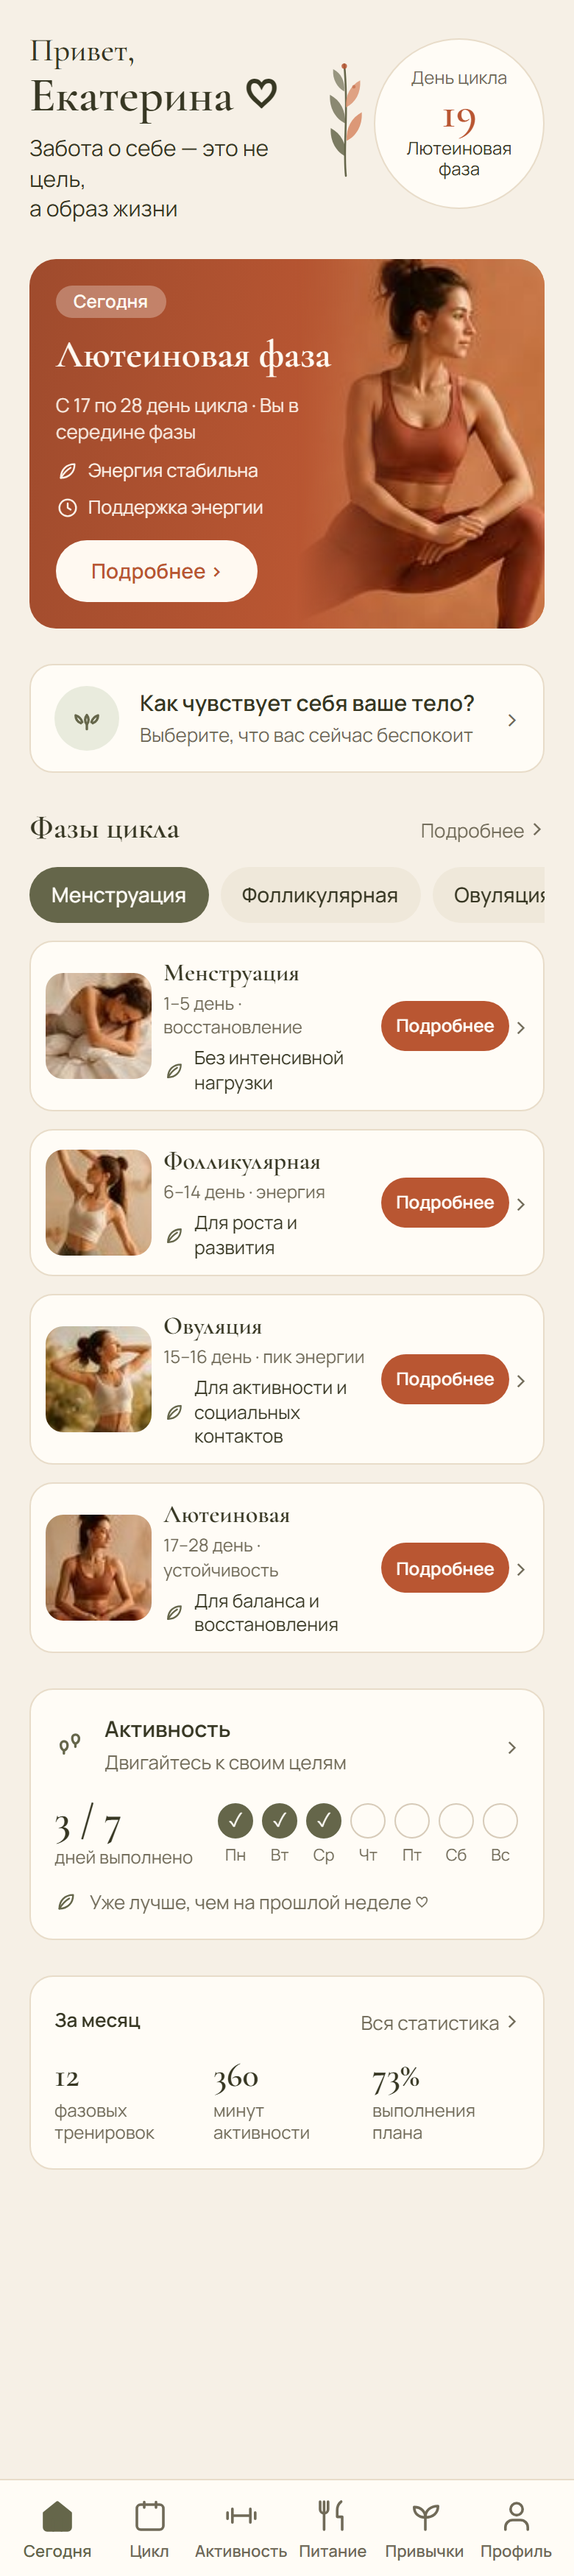
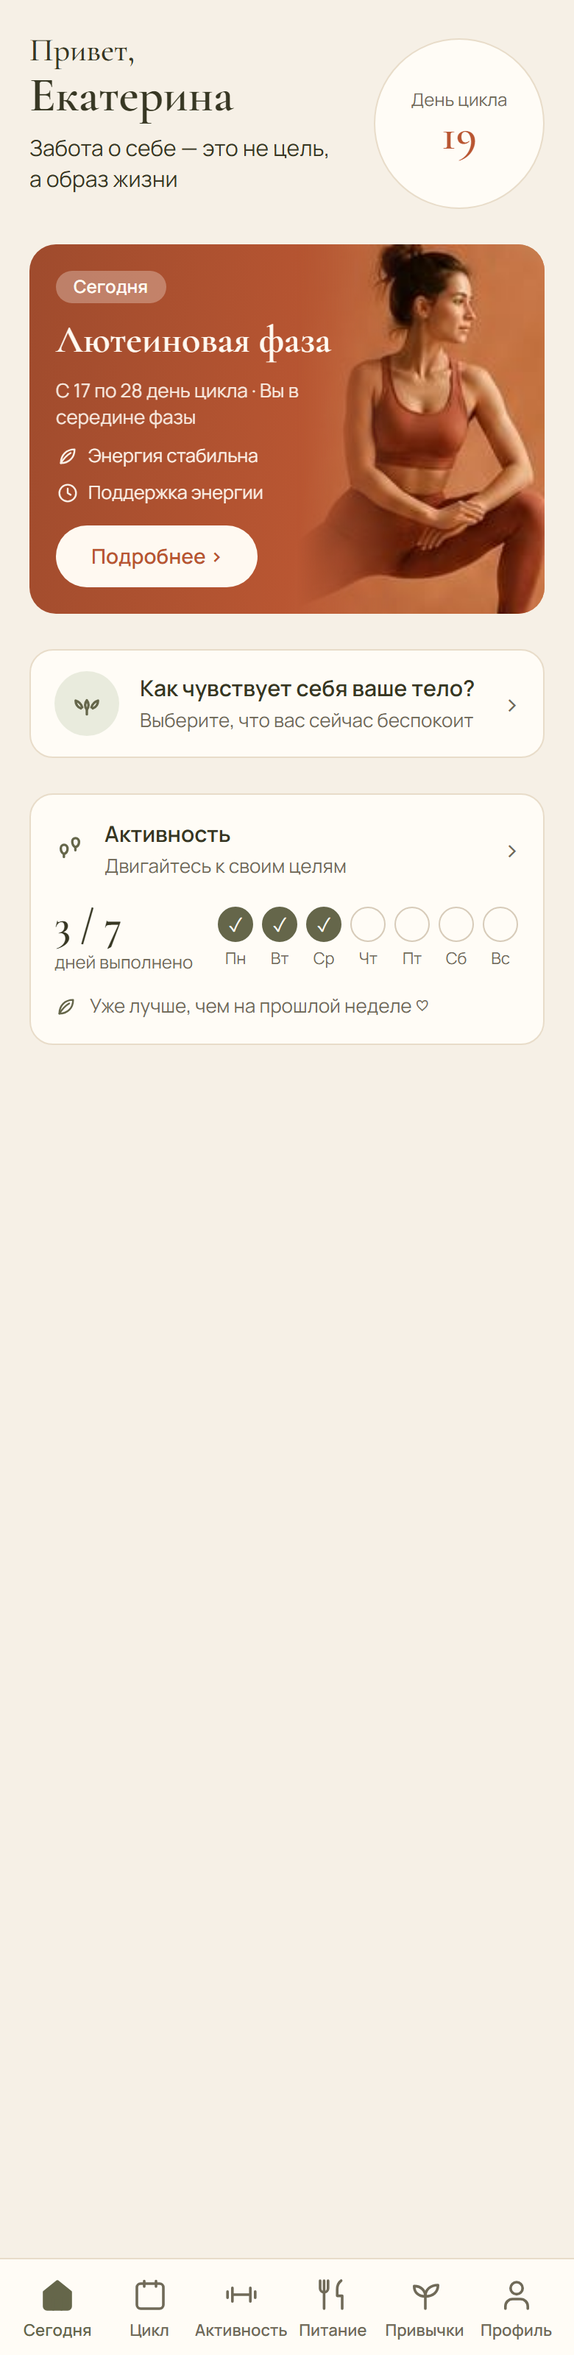
Правки-1 «Сегодня»: шапка без сердечка и веточки, hero-фото через манифест (hero-svetlana), Google Fonts, мини-карточка цикла без фазы, убраны «Фазы цикла» и месячная сводка, день заботы без воды

diff --git a/GirlFitnBot/webapp/screens/today.js b/GirlFitnBot/webapp/screens/today.js
@@ -1,6 +1,6 @@
 // Экран «Сегодня» — вёрстка 1-в-1 с референсом (Экраны/Первая вкладка.jpg).
-// Шапка → hero текущей фазы → чек-ин → фазы цикла (чипы + 4 карточки) →
-// активность недели → статистика за месяц. Данные — из модели (API/CycleMath).
+// Шапка → hero текущей фазы → чек-ин → компактная сводка активности недели.
+// Фазы цикла и полная статистика живут на своих вкладках («Цикл», «Активность»).
 
 const TODAY_PHASE_ORDER = ['menstrual', 'follicular', 'ovulatory', 'luteal'];
 
@@ -66,29 +66,25 @@ App.screens.today = (() => {
         const noCycle = !cycle || cycle.cycle_day === null || !cycle.phase;
         const parts = noCycle
             ? [renderHeader(), renderNoCycle()]
-            : [renderHeader(), renderHero(), renderCheckinRow(), renderPhases(),
-               renderActivityBlock(), renderMonth()];
+            : [renderHeader(), renderHero(), renderCheckinRow(),
+               renderActivityBlock()];
         setHTML('today-content', parts.join(''));
         bindAll();
     }
 
-    // --- 1. Шапка: приветствие + веточка + карточка цикла ---
+    // --- 1. Шапка: приветствие + мини-карточка цикла (без фазы и декора) ---
     function renderHeader() {
         const cycle = App.state.cycle;
-        const phase = cycle && cycle.phase
-            ? (App.state.content.phases[cycle.phase] || {}).name
-            : '';
         const card = (cycle && cycle.cycle_day !== null && cycle.phase)
-            ? Components.cycleCard(cycle.cycle_day, phase)
-            : Components.cycleCard('—', 'Цикл не настроен');
+            ? Components.cycleCard(cycle.cycle_day, '', { withoutPhase: true })
+            : Components.cycleCard('—', '', { withoutPhase: true });
         return `
         <header class="td-header">
             <div class="td-header-text">
-                <h1 class="td-greet">Привет,<br><span class="td-name">${esc(displayName())} ♡</span></h1>
+                <h1 class="td-greet">Привет,<br><span class="td-name">${esc(displayName())}</span></h1>
                 <p class="td-sub">Забота о себе — это не цель,<br>а образ жизни</p>
             </div>
             <div class="td-header-side">
-                ${Components.branch(54, 84)}
                 ${card}
             </div>
         </header>`;
@@ -111,7 +107,7 @@ App.screens.today = (() => {
         return `
         <section class="td-hero" id="t-hero" role="button" tabindex="0"
                  aria-label="${esc(p.name || '')}">
-            <img class="td-hero-img" src="img/hero-today.jpg" alt="">
+            <img class="td-hero-img" src="${IMAGES['hero-svetlana']}" alt="">
             <div class="td-hero-inner">
                 <span class="td-hero-badge">Сегодня</span>
                 <h2 class="td-hero-title">${esc(p.name || '')}</h2>
@@ -138,32 +134,7 @@ App.screens.today = (() => {
         </button>`;
     }
 
-    // --- 4. Фазы цикла: чипы + 4 карточки ---
-    function renderPhases() {
-        const items = TODAY_PHASE_ORDER.map((key) => phaseInfo(key).short_name || phaseInfo(key).name);
-        const cards = TODAY_PHASE_ORDER.map((key) => {
-            const p = phaseInfo(key);
-            return `
-            <div class="td-phase" role="button" tabindex="0" data-phase="${key}">
-                <img class="td-phase-img" src="${esc(p.img || '')}" alt="" loading="lazy">
-                <span class="td-phase-body">
-                    <span class="td-phase-name">${esc(p.short_name || p.name)}</span>
-                    <span class="td-phase-meta">${p.from}–${p.to} день · ${esc(p.descriptor || '')}</span>
-                    <span class="td-phase-note">${Components.icon('leaf', 15)} ${esc(p.tagline || '')}</span>
-                </span>
-                <span class="td-phase-side">
-                    ${Components.pillButton('Подробнее', 'primary', true)}
-                    <span class="gf-chev">›</span>
-                </span>
-            </div>`;
-        }).join('');
-        return `
-        <section>
-            <div id="t-phases-head">${Components.sectionHeader('Фазы цикла', 'Подробнее')}</div>
-            <div class="td-chips">${Components.chips(items, 0)}</div>
-            <div class="td-phase-list">${cards}</div>
-        </section>`;
-    }
+    // --- 4. Фазы цикла на «Сегодня» не показываем: фазы живут на вкладке «Цикл» ---
 
     // --- 5. Активность недели ---
     function renderActivityBlock() {
@@ -194,23 +165,7 @@ App.screens.today = (() => {
         </section>`;
     }
 
-    // --- 6. За месяц ---
-    function renderMonth() {
-        const d = progressData || {};
-        const items = [
-            { value: String(d.workouts_completed || 0), label: 'фазовых тренировок' },
-            { value: String(d.active_minutes || 0), label: 'минут активности' },
-            { value: `${d.regularity_pct || 0}%`, label: 'выполнения плана' },
-        ];
-        return `
-        <section class="td-month">
-            <div class="td-month-head">
-                <span class="td-month-cap">За месяц</span>
-                <button class="gf-section-link" id="t-stats">Вся статистика <span class="gf-chev">›</span></button>
-            </div>
-            ${Components.statBlock(items)}
-        </section>`;
-    }
+    // --- 6. «За месяц» на «Сегодня» не дублируем: полная статистика — на вкладке «Активность» ---
 
     // --- Шторка чек-ина (самочувствие + вода) ---
     function openCheckin() {
@@ -321,22 +276,8 @@ App.screens.today = (() => {
         const checkin = el('t-checkin');
         if (checkin) checkin.addEventListener('click', openCheckin);
 
-        const head = el('t-phases-head');
-        if (head) head.querySelector('.gf-section-link')
-            .addEventListener('click', () => showMain('cycle'));
-        document.querySelectorAll('#today-content .gf-chip').forEach((chip) => {
-            chip.addEventListener('click', () => showMain('cycle'));
-        });
-        document.querySelectorAll('#today-content .td-phase').forEach((card) => {
-            card.addEventListener('click', () =>
-                App.screens.cycle.openPhase(card.dataset.phase));
-        });
-
         const activity = el('t-activity');
         if (activity) activity.addEventListener('click', () => showMain('activity'));
-
-        const stats = el('t-stats');
-        if (stats) stats.addEventListener('click', () => showScreen('stats'));
     }
 
     return { onShow, render };

diff --git a/GirlFitnBot/webapp/components.js b/GirlFitnBot/webapp/components.js
@@ -17,6 +17,7 @@
 const Components = (() => {
 
     // --- Карточка цикла (круг): «День цикла» / число / фаза (спека §1) ---
+    // opts.withoutPhase — не рендерить строку фазы (мини-карточка в шапке)
     function cycleCard(day, phaseName, opts = {}) {
         const compact = Boolean(opts.compact);
         const cls = 'gf-cycle-card' + (compact ? ' gf-cycle-card-compact' : '');
@@ -25,7 +26,7 @@ const Components = (() => {
         <div class="${cls}" role="group" aria-label="${esc(label)} ${esc(day)}">
             <span class="gf-cycle-card-label">${esc(label)}</span>
             <span class="gf-cycle-card-day">${esc(day)}</span>
-            <span class="gf-cycle-card-phase">${esc(phaseName || '')}</span>
+            ${opts.withoutPhase ? '' : `<span class="gf-cycle-card-phase">${esc(phaseName || '')}</span>`}
         </div>`;
     }
 

diff --git a/GirlFitnBot/webapp/app.js b/GirlFitnBot/webapp/app.js
@@ -44,6 +44,15 @@ const FETCH_TIMEOUT_MS = 10000;
 const App = { state, screens: {}, tg };
 window.App = App;
 
+// --- Манифест иллюстраций ---
+// Все фото/иллюстрации экранов — ключами отсюда. Замена фото — одна строка
+// в этом манифесте, код экранов не трогаем.
+// hero-svetlana: временный плейсхолдер, позже заменить на фото Светланы.
+const IMAGES = {
+    'hero-svetlana': 'img/hero-today.jpg',
+};
+window.IMAGES = IMAGES;
+
 // --- Подстройка под тему Telegram ---
 // Фон/текст/карточки берём из themeParams, акцент НЕ перекрываем —
 // иначе Telegram подставит свой цвет вместо фирменной терракоты.

diff --git a/GirlFitnBot/webapp/index.html b/GirlFitnBot/webapp/index.html
@@ -9,6 +9,11 @@
     <link rel="icon" href="data:,">
     <!-- Скрипт Telegram: открывает объект Telegram.WebApp для JS -->
     <script src="https://telegram.org/js/telegram-web-app.js"></script>
+    <!-- Веб-шрифты (гарантированная доставка); локальные @font-face в style.css
+         остаются как офлайн-фолбэк с теми же семействами и весами -->
+    <link rel="preconnect" href="https://fonts.googleapis.com">
+    <link rel="preconnect" href="https://fonts.gstatic.com" crossorigin>
+    <link href="https://fonts.googleapis.com/css2?family=Cormorant+Garamond:wght@400;500;600;700&family=Manrope:wght@400;500;600;700;800&display=swap" rel="stylesheet">
     <link rel="stylesheet" href="style.css">
 </head>
 <body>

diff --git a/GirlFitnBot/webapp/gamification.js b/GirlFitnBot/webapp/gamification.js
@@ -73,13 +73,13 @@ const Gamification = (() => {
         </button>`;
     }
 
-    // --- «Твой день заботы»: Тренировка ✓ · Питание ✓ · Вода ✓ · Привычка ○ ---
+    // --- «Твой день заботы»: Тренировка ✓ · Питание ✓ · Привычка ○ ---
     function renderCareDay(g) {
         const c = App.state.content.gamification;
         const cd = g.care_day;
         const items = [
             ['workout', cd.workout], ['nutrition', cd.nutrition],
-            ['water', cd.water], ['habit', cd.habit],
+            ['habit', cd.habit],
         ];
         return `
         <section class="card card-warm">
